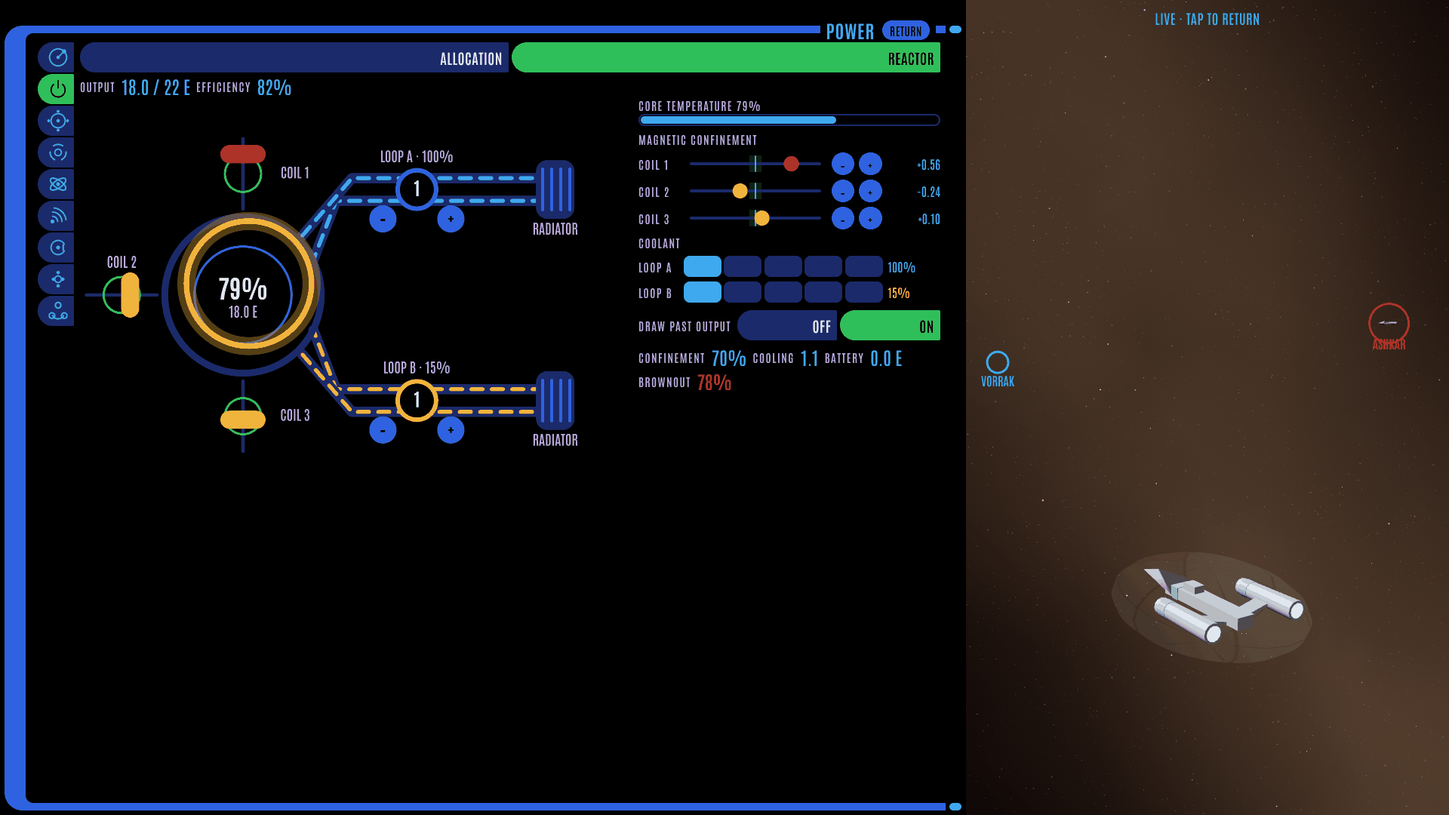
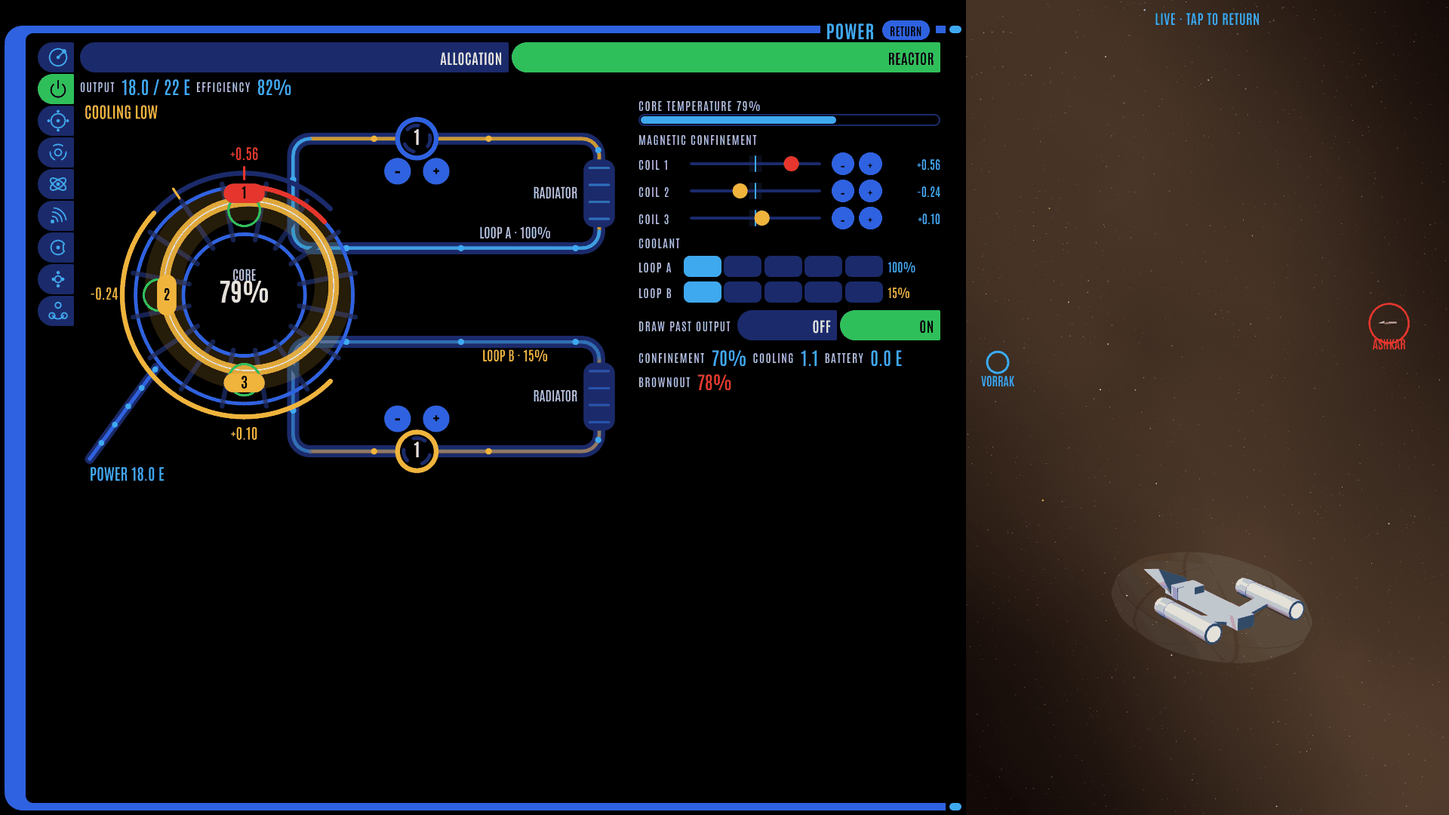
Reactor diagram redrawn as a schematic, coolant as closed loops
The vessel with a field-coil cage and the plasma in its channel, pushed off
centre by misalignment and sparking where it scrapes the wall; a temperature
dial with the warning and limit marked; coolant loops as closed circuits running
through the vessel, hot out to the radiator and cold back, with turning pumps
and radiators that glow with the heat they shed; the power bus. Coils still
drag home, pumps still take minus and plus.

Claude-Session: https://claude.ai/code/session_01RGPQuqAYNNJKpzbbbZ3BfB

diff --git a/docs/mockups/battle-console.html b/docs/mockups/battle-console.html
@@ -1308,82 +1308,145 @@ function coilGauge(i, w, h) {
 // when offline; minus and plus on each pump set its flow. Drawn in Concord's hand: flat lines and pills on black.
 function reactorDiagram(w, h, big) {
   const c = el('canvas', 'live'); c.width = Math.round(w * 2); c.height = Math.round(h * 2); css(c, `width:${w}px;height:${h}px;flex:none;touch-action:none;`);
-  const x = c.getContext('2d'), k = big ? 1.5 : 1;
-  const cx = w * 0.3, cy = h * 0.5, r = Math.min(w * 0.15, h * 0.2), coilR = r * 1.55, travel = r * 0.45;
-  // Coils at the top, the left and the bottom, clear of the coolant pipes on the right.
+  const x = c.getContext('2d'), k = big ? 1.6 : 1;
+  // Geometry: the vessel on the left, the coolant loops to the right, the power bus off the lower left.
+  const R = Math.min(w * 0.2, h * 0.33), cx = Math.max(w * 0.29, R + 46 * (big ? 1.6 : 1)), cy = h * 0.5, Ri = R * 0.56, mid = (R + Ri) / 2, chan = R - Ri, travel = R * 0.28;
   const coilDir = (i) => [-P / 2, P, P / 2][i];
-  const coilAt = (i) => { const a = coilDir(i), d = coilR + W.player.reactor.coils[i] * travel; return [cx + Math.cos(a) * d, cy + Math.sin(a) * d]; };
-  const pumpAt = (j) => [w * 0.62, j ? cy + h * 0.27 : cy - h * 0.27], radAt = (j) => [w * 0.86, j ? cy + h * 0.27 : cy - h * 0.27];
-  const keysAt = (j) => { const [px, py] = pumpAt(j), d = 30 * k; return [[px - d, py + 26 * k, -1], [px + d, py + 26 * k, 1]]; };
+  const coilAt = (i) => { const a = coilDir(i), d = mid + W.player.reactor.coils[i] * travel; return [cx + Math.cos(a) * d, cy + Math.sin(a) * d]; };
+  const portA = (j) => (j ? 0.62 : -0.62), port = (j, rr) => [cx + Math.cos(portA(j)) * rr, cy + Math.sin(portA(j)) * rr];
+  // Each coolant loop is a closed circuit (owner, 2026-11-01: "the loop a and loop b should look like loops"): a rounded
+  // loop whose inner side runs through the vessel, out along its outer side through the pump, round the radiator on the
+  // far side and back along its inner side. Loop A above the core, loop B below.
+  const loopGeom = (j) => {
+    const s = j ? 1 : -1, x0 = cx + R * 0.45, x1 = w - 20 * k, yO = cy + s * h * 0.4, yI = cy + s * h * 0.12, rad = 14 * k;
+    // sampled outline, clockwise for A and anticlockwise for B, starting where the outer side leaves the vessel
+    const pts = [], arc = (ax, ay, a0, a1) => { for (let n = 0; n <= 6; n++) { const a = a0 + (a1 - a0) * n / 6; pts.push([ax + Math.cos(a) * rad, ay + Math.sin(a) * rad]); } };
+    const sy = (y) => y; // y as given
+    pts.push([x0 + rad, yO]);
+    arc(x1 - rad, yO - s * rad, s < 0 ? -P / 2 : P / 2, 0);          // outer far corner
+    const hotEnd = pts.length;                                        // the radiator sits on the far side, between the corners
+    arc(x1 - rad, yI + s * rad, 0, s < 0 ? P / 2 : -P / 2);          // inner far corner
+    arc(x0 + rad, yI + s * rad, s < 0 ? P / 2 : -P / 2, s < 0 ? P : -P); // inner near corner
+    arc(x0 + rad, yO - s * rad, s < 0 ? P : -P, s < 0 ? 1.5 * P : -1.5 * P); // outer near corner
+    return { s, x0, x1, yO, yI, pts, hotEnd, pump: [w * 0.62, yO], rad: [x1, (yO + yI) / 2] };
+  };
+  const pumpAt = (j) => loopGeom(j).pump, radAt = (j) => loopGeom(j).rad;
+  // Minus and plus inside the loop, under loop A's pump and over loop B's.
+  const keysAt = (j) => { const g = loopGeom(j), y = g.yO - g.s * 27 * k; return [[g.pump[0] - 16 * k, y, -1], [g.pump[0] + 16 * k, y, 1]]; };
+  const bus = () => { const a = P * 0.78; return [[cx + Math.cos(a) * (R + 4 * k), cy + Math.sin(a) * (R + 4 * k)], [8 * k, h - 26 * k]]; };
   let drag = -1, hover = null;
   const hit = (px, py) => {
-    for (let i = 0; i < REACTOR.coils; i++) { const [qx, qy] = coilAt(i); if (Math.hypot(px - qx, py - qy) < 22 * k) return { coil: i }; }
-    for (let j = 0; j < REACTOR.loops; j++) for (const [qx, qy, d] of keysAt(j)) if (Math.hypot(px - qx, py - qy) < 16 * k) return { loop: j, d };
+    for (let i = 0; i < REACTOR.coils; i++) { const [qx, qy] = coilAt(i); if (Math.hypot(px - qx, py - qy) < 20 * k) return { coil: i }; }
+    for (let j = 0; j < REACTOR.loops; j++) for (const [qx, qy, d] of keysAt(j)) if (Math.hypot(px - qx, py - qy) < 15 * k) return { loop: j, d };
+    for (let j = 0; j < REACTOR.loops; j++) { const [qx, qy] = pumpAt(j); if (Math.hypot(px - qx, py - qy) < 18 * k) return { pump: j }; }
     return null;
   };
   const at = (e) => { const b2 = c.getBoundingClientRect(); return [(e.clientX - b2.left) / b2.width * w, (e.clientY - b2.top) / b2.height * h]; };
   c.onpointerdown = (e) => {
     e.stopPropagation(); const [px, py] = at(e), t = hit(px, py); if (!t) return;
     if (t.coil != null) { drag = t.coil; c.setPointerCapture(e.pointerId); }
-    else { A.flow(t.loop, W.player.reactor.loops[t.loop].flow + t.d); tickUI(); }
+    else if (t.loop != null) { A.flow(t.loop, W.player.reactor.loops[t.loop].flow + t.d); tickUI(); }
   };
   c.onpointermove = (e) => {
     const [px, py] = at(e);
-    if (drag >= 0) { const a = coilDir(drag), along = (px - cx) * Math.cos(a) + (py - cy) * Math.sin(a); A.setCoil(drag, (along - coilR) / travel); tickUI(); }
-    else { hover = hit(px, py); c.style.cursor = hover ? (hover.coil != null ? 'grab' : 'pointer') : 'default'; }
+    if (drag >= 0) { const a = coilDir(drag), along = (px - cx) * Math.cos(a) + (py - cy) * Math.sin(a); A.setCoil(drag, (along - mid) / travel); tickUI(); }
+    else { hover = hit(px, py); c.style.cursor = hover ? (hover.coil != null ? 'grab' : hover.loop != null ? 'pointer' : 'default') : 'default'; }
   };
   c.onpointerup = c.onpointercancel = () => { drag = -1; };
-  const pipe = (pts, l, t) => {
-    const col = l.hp <= 0 ? CC.alert : l.hp < 0.5 ? CC.caution : CC.sky;
-    x.lineWidth = 9 * k; x.strokeStyle = CC.deep; x.beginPath(); pts.forEach(([px, py], n) => (n ? x.lineTo(px, py) : x.moveTo(px, py))); x.stroke();
-    x.lineWidth = 3.5 * k; x.strokeStyle = col; x.setLineDash(l.hp <= 0 ? [4 * k, 14 * k] : [10 * k, 8 * k]); x.lineDashOffset = -t * l.flow * 14 * k;
-    x.beginPath(); pts.forEach(([px, py], n) => (n ? x.lineTo(px, py) : x.moveTo(px, py))); x.stroke(); x.setLineDash([]);
+  c.onpointerleave = () => { if (drag < 0) hover = null; };
+  const path = (pts) => { x.beginPath(); pts.forEach(([px, py], n) => (n ? x.lineTo(px, py) : x.moveTo(px, py))); };
+  const along = (pts, f) => { // the point a share f of the way along a polyline
+    const seg = []; let tot = 0; for (let n = 1; n < pts.length; n++) { const l = Math.hypot(pts[n][0] - pts[n - 1][0], pts[n][1] - pts[n - 1][1]); seg.push(l); tot += l; }
+    let d = (((f % 1) + 1) % 1) * tot; for (let n = 0; n < seg.length; n++) { if (d <= seg[n]) { const q = d / (seg[n] || 1); return [pts[n][0] + (pts[n + 1][0] - pts[n][0]) * q, pts[n][1] + (pts[n + 1][1] - pts[n][1]) * q]; } d -= seg[n]; }
+    return pts[pts.length - 1];
   };
+  const heatCol = (t) => (t >= 85 ? CC.alert : t >= 65 ? CC.caution : CC.sky);
+  // A pipe with what flows in it: a dark sleeve, a coloured core, and beads that move at the flow.
+  const pipe = (pts, col, l, t, phase) => {
+    x.lineWidth = 10 * k; x.strokeStyle = CC.deep; path(pts); x.stroke();
+    if (l.hp <= 0) { x.lineWidth = 3 * k; x.strokeStyle = CC.alert; x.setLineDash([3 * k, 9 * k]); path(pts); x.stroke(); x.setLineDash([]); return; }
+    x.lineWidth = 3 * k; x.strokeStyle = col; x.globalAlpha = l.hp < 0.5 ? 0.55 : 0.85; path(pts); x.stroke(); x.globalAlpha = 1;
+    const n = 2 + l.flow * 2, speed = l.flow * 0.09;
+    x.fillStyle = col; for (let m = 0; m < n; m++) { const [bx, by] = along(pts, m / n + t * speed + phase); x.beginPath(); x.arc(bx, by, 2.6 * k, 0, 2 * P); x.fill(); }
+  };
+  const label = (text, lx, ly, col = CC.lilac, align = 'center', size = 11) => { x.fillStyle = col; x.font = `600 ${size * k}px Antonio`; x.textAlign = align; x.fillText(text, lx, ly); };
   const draw = () => {
     if (!c.isConnected) return;
-    const s = W.player, rx = s.reactor, t = performance.now() / 1000;
+    const s = W.player, rx = s.reactor, t = performance.now() / 1000, tc = heatCol(rx.temp);
     x.setTransform(2, 0, 0, 2, 0, 0); x.clearRect(0, 0, w, h); x.lineCap = 'round'; x.lineJoin = 'round';
-    // Coolant loops: out of the core, through the pump, round the radiator, back.
+    // The power bus: output leaving the vessel, in Power's blue, beads at the output.
+    const bp = bus(); x.lineWidth = 8 * k; x.strokeStyle = CC.deep; path(bp); x.stroke(); x.lineWidth = 3 * k; x.strokeStyle = CC.signal; path(bp); x.stroke();
+    x.fillStyle = CC.sky; const nb = Math.max(1, Math.round(output(s) / 4)); for (let m = 0; m < nb; m++) { const [bx, by] = along(bp, m / nb + t * 0.25); x.beginPath(); x.arc(bx, by, 2.4 * k, 0, 2 * P); x.fill(); }
+    label(`POWER ${output(s).toFixed(1)} E`, 8 * k, h - 8 * k, CC.sky, 'left', 13);
+    // Coolant loops.
     rx.loops.forEach((l, j) => {
-      const [px, py] = pumpAt(j), [qx, qy] = radAt(j), sgn = j ? 1 : -1, ex = cx + r * 0.9, ey = cy + sgn * r * 0.45;
-      pipe([[ex, ey], [ex + 20 * k, py - 10 * k * sgn], [px, py - 10 * k * sgn], [qx, qy - 10 * k * sgn]], l, t);
-      pipe([[qx, qy + 10 * k * sgn], [px, py + 10 * k * sgn], [ex + 34 * k, py + 10 * k * sgn], [cx + r * 0.75, cy + sgn * r * 0.75]], l, t);
-      // radiator: a pill with fins; pump: a ring with its flow
-      x.fillStyle = CC.deep; x.beginPath(); x.roundRect(qx - 10 * k, qy - 26 * k, 34 * k, 52 * k, 10 * k); x.fill();
-      x.strokeStyle = l.hp <= 0 ? CC.alert : CC.signal; x.lineWidth = 2.5 * k; for (let f = 0; f < 4; f++) { x.beginPath(); x.moveTo(qx - 4 * k + f * 8 * k, qy - 18 * k); x.lineTo(qx - 4 * k + f * 8 * k, qy + 18 * k); x.stroke(); }
-      x.fillStyle = '#000'; x.strokeStyle = l.hp <= 0 ? CC.alert : l.hp < 0.5 ? CC.caution : CC.signal; x.lineWidth = 4 * k; x.beginPath(); x.arc(px, py, 17 * k, 0, 2 * P); x.fill(); x.stroke();
-      x.fillStyle = CC.text; x.font = `700 ${16 * k}px Antonio`; x.textAlign = 'center'; x.fillText(String(l.flow), px, py + 6 * k);
-      x.fillStyle = CC.lilac; x.font = `600 ${12 * k}px Antonio`; x.fillText(`LOOP ${'AB'[j]} · ${l.hp <= 0 ? 'OFFLINE' : pct(l.hp)}`, px, py - 24 * k - (j ? 0 : 0));
+      const g = loopGeom(j), [px, py] = g.pump, [qx, qy] = g.rad, sgn = g.s, closed = [...g.pts, g.pts[0]];
+      // The circuit: a dark sleeve; coolant hot (by core temperature) from the vessel to the radiator, cold after it.
+      x.lineWidth = 10 * k; x.strokeStyle = CC.deep; path(closed); x.stroke();
+      if (l.hp <= 0) { x.lineWidth = 3 * k; x.strokeStyle = CC.alert; x.setLineDash([3 * k, 9 * k]); path(closed); x.stroke(); x.setLineDash([]); }
+      else {
+        const hot = g.pts.slice(0, g.hotEnd + 1), cold = [...g.pts.slice(g.hotEnd), g.pts[0]];
+        x.globalAlpha = l.hp < 0.5 ? 0.55 : 0.85; x.lineWidth = 3 * k;
+        x.strokeStyle = tc; path(hot); x.stroke(); x.strokeStyle = CC.sky; path(cold); x.stroke(); x.globalAlpha = 1;
+        const n = 4 + l.flow * 3, speed = l.flow * 0.045;
+        for (let m = 0; m < n; m++) {
+          const f = (((m / n + t * speed) % 1) + 1) % 1, [bx, by] = along(closed, f);
+          x.fillStyle = f < g.hotEnd / g.pts.length ? tc : CC.sky; x.beginPath(); x.arc(bx, by, 2.6 * k, 0, 2 * P); x.fill();
+        }
+      }
+      // Radiator: a fin bank on the far side of the loop, glowing with the heat it sheds.
+      const shed = clamp(l.flow * l.hp * rx.temp / 250, 0, 1), rh = Math.abs(g.yO - g.yI) * 0.62;
+      x.fillStyle = CC.deep; x.beginPath(); x.roundRect(qx - 13 * k, qy - rh / 2, 26 * k, rh, 9 * k); x.fill();
+      for (let f = 0; f < 4; f++) { x.strokeStyle = l.hp <= 0 ? CC.alert : shed > 0.6 ? CC.caution : CC.sky; x.globalAlpha = 0.35 + 0.65 * shed; x.lineWidth = 2 * k; const fy = qy - rh / 2 + 7 * k + f * (rh - 14 * k) / 3; x.beginPath(); x.moveTo(qx - 8 * k, fy); x.lineTo(qx + 8 * k, fy); x.stroke(); }
+      x.globalAlpha = 1; if (big) label('RADIATOR', qx - 18 * k, qy + 4 * k, CC.lilac, 'right');
+      // Pump: a ring on the outer side with an impeller turning at the flow, its flow in the middle.
+      const pc = l.hp <= 0 ? CC.alert : l.hp < 0.5 ? CC.caution : CC.signal, hv = hover && hover.pump === j;
+      x.fillStyle = '#000'; x.strokeStyle = pc; x.lineWidth = (hv ? 5 : 4) * k; x.beginPath(); x.arc(px, py, 16 * k, 0, 2 * P); x.fill(); x.stroke();
+      const spin = t * l.flow * 2.2 * (l.hp > 0 ? 1 : 0) * -sgn; x.strokeStyle = CC.deep; x.lineWidth = 3 * k;
+      for (let m = 0; m < 3; m++) { const a = spin + m * 2 * P / 3; x.beginPath(); x.arc(px, py, 11 * k, a, a + 0.9); x.stroke(); }
+      x.fillStyle = CC.text; x.font = `700 ${15 * k}px Antonio`; x.textAlign = 'center'; x.fillText(String(l.flow), px, py + 5 * k);
+      label(`LOOP ${'AB'[j]} · ${l.hp <= 0 ? 'OFFLINE' : pct(l.hp)}`, (px + qx) / 2 + 6 * k, g.yI + sgn * 12 * k + 4 * k, l.hp <= 0 ? CC.alert : l.hp < 0.5 ? CC.caution : CC.lilac);
       for (const [bx, by, d] of keysAt(j)) {
         const on = hover && hover.loop === j && hover.d === d;
-        x.fillStyle = on ? CC.sky : CC.signal; x.beginPath(); x.arc(bx, by, 12 * k, 0, 2 * P); x.fill();
-        x.fillStyle = '#000'; x.font = `700 ${16 * k}px Antonio`; x.fillText(d < 0 ? '−' : '+', bx, by + 6 * k);
+        x.fillStyle = on ? CC.sky : CC.signal; x.beginPath(); x.arc(bx, by, 11 * k, 0, 2 * P); x.fill();
+        x.fillStyle = '#000'; x.font = `700 ${16 * k}px Antonio`; x.textAlign = 'center'; x.fillText(d < 0 ? '−' : '+', bx, by + 5.5 * k);
       }
-      x.fillStyle = CC.lilac; x.font = `600 ${12 * k}px Antonio`; x.fillText('RADIATOR', qx + 7 * k, qy + 40 * k);
     });
-    // Core: the vessel, the plasma ring off centre by the coils' misalignment, coloured by temperature.
-    const off = rx.coils.reduce(([ax, ay], o, i) => [ax + Math.cos(coilDir(i)) * o, ay + Math.sin(coilDir(i)) * o], [0, 0]);
-    const hot = rx.temp >= 85 || rx.melt > 0, warm = rx.temp >= 65, pulse = rx.melt > 0 ? 0.5 + 0.5 * Math.sin(t * 8) : 1;
-    x.strokeStyle = CC.deep; x.lineWidth = 6 * k; x.beginPath(); x.arc(cx, cy, r, 0, 2 * P); x.stroke();
-    x.strokeStyle = CC.signal; x.lineWidth = 2 * k; x.beginPath(); x.arc(cx, cy, r * 0.62, 0, 2 * P); x.stroke();
-    const px0 = cx + off[0] * r * 0.32, py0 = cy + off[1] * r * 0.32;
-    x.globalAlpha = 0.35 * pulse; x.strokeStyle = hot ? CC.alert : warm ? CC.caution : CC.sky; x.lineWidth = 16 * k; x.beginPath(); x.arc(px0, py0, r * 0.8, 0, 2 * P); x.stroke();
-    x.globalAlpha = pulse; x.lineWidth = 5 * k; x.beginPath(); x.arc(px0, py0, r * 0.8, 0, 2 * P); x.stroke(); x.globalAlpha = 1;
-    x.fillStyle = hot ? CC.alert : CC.text; x.textAlign = 'center'; x.font = `700 ${22 * k}px Antonio`; x.fillText(`${Math.round(rx.temp)}%`, cx, cy + 4 * k);
-    x.fillStyle = CC.lilac; x.font = `600 ${12 * k}px Antonio`; x.fillText(`${output(s).toFixed(1)} E`, cx, cy + 20 * k);
-    if (rx.melt > 0) { x.fillStyle = CC.alert; x.font = `700 ${16 * k}px Antonio`; x.textAlign = 'left'; x.fillText(`MELTDOWN ${Math.ceil(REACTOR.meltdown_s - rx.melt)} S`, 6, 18 * k); x.textAlign = 'center'; }
-    // Coils: a mark where each belongs, the coil where it is, joined by a thin line; green when home.
+    // The temperature dial round the vessel, open on the right where the pipes leave: 0-120 %, clockwise from the lower
+    // right, ticks at the warning (85) and the limit (100).
+    const g0 = P * 0.25, gs = P * 1.5, gr = R + 11 * k, gv = clamp(rx.temp / 120, 0, 1);
+    x.lineWidth = 4 * k; x.strokeStyle = CC.deep; x.beginPath(); x.arc(cx, cy, gr, g0, g0 + gs); x.stroke();
+    x.strokeStyle = tc; x.beginPath(); x.arc(cx, cy, gr, g0, g0 + gs * gv); x.stroke();
+    for (const [v2, col] of [[85, CC.caution], [100, CC.alert]]) { const a = g0 + gs * v2 / 120; x.strokeStyle = col; x.lineWidth = 2 * k; x.beginPath(); x.moveTo(cx + Math.cos(a) * (gr - 5 * k), cy + Math.sin(a) * (gr - 5 * k)); x.lineTo(cx + Math.cos(a) * (gr + 5 * k), cy + Math.sin(a) * (gr + 5 * k)); x.stroke(); }
+    // The vessel: outer and inner walls, the field-coil cage, the plasma in the channel.
+    x.lineWidth = 3 * k; x.strokeStyle = CC.signal; x.beginPath(); x.arc(cx, cy, R, 0, 2 * P); x.stroke(); x.beginPath(); x.arc(cx, cy, Ri, 0, 2 * P); x.stroke();
+    x.strokeStyle = CC.deep; x.lineWidth = 4 * k; x.globalAlpha = 0.7;
+    for (let m = 0; m < 16; m++) { const a = m * P / 8 + P / 16; x.beginPath(); x.moveTo(cx + Math.cos(a) * (Ri - 4 * k), cy + Math.sin(a) * (Ri - 4 * k)); x.lineTo(cx + Math.cos(a) * (R + 4 * k), cy + Math.sin(a) * (R + 4 * k)); x.stroke(); }
+    x.globalAlpha = 1;
+    const off = rx.coils.reduce(([ax, ay], o, i) => [ax + Math.cos(coilDir(i)) * o, ay + Math.sin(coilDir(i)) * o], [0, 0]), offN = Math.hypot(off[0], off[1]);
+    const ox = off[0] * chan * 0.42, oy = off[1] * chan * 0.42, pulse = rx.melt > 0 ? 0.55 + 0.45 * Math.sin(t * 9) : 0.85 + 0.15 * Math.sin(t * 2.3);
+    x.save(); x.beginPath(); x.arc(cx, cy, R - 1.5 * k, 0, 2 * P); x.arc(cx, cy, Ri + 1.5 * k, 0, 2 * P, true); x.clip();
+    x.globalAlpha = 0.16 * pulse; x.strokeStyle = tc; x.lineWidth = chan * 0.8; x.beginPath(); x.arc(cx + ox, cy + oy, mid, 0, 2 * P); x.stroke();
+    x.globalAlpha = 0.95 * pulse; x.lineWidth = chan * 0.22; x.beginPath(); x.arc(cx + ox, cy + oy, mid, 0, 2 * P); x.stroke();
+    x.globalAlpha = 1; x.strokeStyle = '#fff'; x.lineWidth = 1.2 * k; x.globalAlpha = 0.6 * pulse; x.beginPath(); x.arc(cx + ox, cy + oy, mid, 0, 2 * P); x.stroke(); x.globalAlpha = 1; x.restore();
+    // Wall contact: the plasma pushed far enough to scrape the vessel sparks red where it touches.
+    if (offN > 0.3) { const a = Math.atan2(off[1], off[0]); x.strokeStyle = CC.alert; x.lineWidth = 4 * k; x.globalAlpha = 0.5 + 0.5 * Math.sin(t * 14); x.beginPath(); x.arc(cx, cy, R, a - 0.35, a + 0.35); x.stroke(); x.globalAlpha = 1; }
+    // Centre: temperature, the word CORE.
+    x.fillStyle = rx.temp >= 85 ? CC.alert : CC.text; x.textAlign = 'center'; x.font = `700 ${(big ? 26 : 20) * k / (big ? 1.25 : 1)}px Antonio`; x.fillText(`${Math.round(rx.temp)}%`, cx, cy + 6 * k);
+    label('CORE', cx, cy - 12 * k);
+    // Confinement coils: a short track across the vessel, a green ring where each belongs, the coil numbered on its face.
     for (let i = 0; i < REACTOR.coils; i++) {
-      const a = coilDir(i), mx = cx + Math.cos(a) * coilR, my = cy + Math.sin(a) * coilR, [qx, qy] = coilAt(i), o = Math.abs(rx.coils[i]);
-      x.strokeStyle = CC.deep; x.lineWidth = 3 * k; x.beginPath(); x.moveTo(cx + Math.cos(a) * (coilR - travel), cy + Math.sin(a) * (coilR - travel)); x.lineTo(cx + Math.cos(a) * (coilR + travel), cy + Math.sin(a) * (coilR + travel)); x.stroke();
-      x.strokeStyle = CC.accord; x.lineWidth = 2 * k; x.beginPath(); x.arc(mx, my, 16 * k, 0, 2 * P); x.stroke();
-      const col = o < 0.1 ? CC.accord : o < 0.3 ? CC.caution : CC.alert;
-      x.save(); x.translate(qx, qy); x.rotate(a + P / 2); x.fillStyle = col; x.beginPath(); x.roundRect(-20 * k, -8 * k, 40 * k, 16 * k, 8 * k); x.fill();
-      if ((hover && hover.coil === i) || drag === i) { x.strokeStyle = CC.text; x.lineWidth = 2 * k; x.stroke(); } x.restore();
-      x.fillStyle = CC.lilac; x.font = `600 ${12 * k}px Antonio`; x.textAlign = 'center';
-      const lx = cx + Math.cos(a) * coilR + (Math.abs(Math.cos(a)) < 0.5 ? 46 * k : 0), ly = cy + Math.sin(a) * coilR + (Math.abs(Math.cos(a)) < 0.5 ? 4 * k : -24 * k);
-      x.fillText(`COIL ${i + 1}`, lx, ly);
+      const a = coilDir(i), mx = cx + Math.cos(a) * mid, my = cy + Math.sin(a) * mid, [qx, qy] = coilAt(i), o = rx.coils[i], ao = Math.abs(o);
+      x.strokeStyle = CC.accord; x.lineWidth = 2 * k; x.beginPath(); x.arc(mx, my, 13 * k, 0, 2 * P); x.stroke();
+      const col = ao < 0.1 ? CC.accord : ao < 0.3 ? CC.caution : CC.alert, act = (hover && hover.coil === i) || drag === i;
+      x.save(); x.translate(qx, qy); x.rotate(a + P / 2); x.fillStyle = col; x.beginPath(); x.roundRect(-17 * k, -8 * k, 34 * k, 16 * k, 8 * k); x.fill();
+      if (act) { x.strokeStyle = CC.text; x.lineWidth = 2 * k; x.stroke(); }
+      x.rotate(-(a + P / 2)); x.fillStyle = '#000'; x.font = `700 ${12 * k}px Antonio`; x.textAlign = 'center'; x.fillText(String(i + 1), 0, 4.5 * k); x.restore();
+      const vr = R + 26 * k; if (act || ao >= 0.1) label(`${o >= 0 ? '+' : ''}${o.toFixed(2)}`, cx + Math.cos(a) * vr, cy + Math.sin(a) * vr + 4 * k, col, 'center', 12);
     }
+    // The meltdown clock, across the top.
+    if (rx.melt > 0) { x.fillStyle = CC.alert; x.globalAlpha = 0.6 + 0.4 * Math.sin(t * 9); x.font = `700 ${15 * k}px Antonio`; x.textAlign = 'left'; x.fillText(`MELTDOWN IN ${Math.ceil(REACTOR.meltdown_s - rx.melt)} S`, 6, 16 * k); x.globalAlpha = 1; }
+    else if (cooling(s) < 1.5) label('COOLING LOW', 6, 16 * k, CC.caution, 'left', 13);
     requestAnimationFrame(draw);
   };
   requestAnimationFrame(draw);
@@ -1391,11 +1454,12 @@ function reactorDiagram(w, h, big) {
 }
 function stReactor(b, big) {
   const s = () => W.player, rx = () => W.player.reactor, rated = () => CLASSES[W.player.cls].reactor_e;
-  b.append(htm(() => `<span class="lbl">Output</span> <span class="num">${output(s()).toFixed(1)} / ${rated()} E</span> <span class="lbl">Efficiency</span> <span class="num">${pct(efficiency(s()))}</span>`, 'row'));
+  const out = htm(() => `<span class="lbl">Output</span> <span class="num">${output(s()).toFixed(1)} / ${rated()} E</span> <span class="lbl">Efficiency</span> <span class="num">${pct(efficiency(s()))}</span>`, 'row');
   const temp = bar(() => (rx().melt > 0 ? `Core ${Math.round(rx().temp)}% · meltdown in ${Math.ceil(REACTOR.meltdown_s - rx().melt)} s` : `Core temperature ${Math.round(rx().temp)}%`),
     () => rx().temp / 120, () => rx().temp >= 85 || rx().melt > 0);
   const cfg = el('div', 'row'); cfg.append(el('div', 'lbl', 'Draw past output'), css(tabs([[false, 'Off'], [true, 'On']], () => s().overdraw, A.overdraw), 'flex:1;'));
-  if (!big) { b.append(reactorDiagram(348, 196, false), temp, cfg); return; }
+  if (!big) { b.append(reactorDiagram(348, 276, false), cfg); return; }
+  b.append(out);
   // Expanded: the diagram large, and beside it the same controls as numbers (coil gauges, loop flow boxes).
   const r = R.station.getBoundingClientRect(), dw = Math.min(820, r.width / S - 72 - 56 - 420), dh = Math.min(dw * 0.72, r.height / S - 170);
   const row = el('div', 'row'); css(row, 'align-items:flex-start;gap:20px;');

diff --git a/openspec/changes/reactor/design.md b/openspec/changes/reactor/design.md
@@ -36,15 +36,25 @@ brown out.
 ## The screen (Concord skin)
 
 - **The reactor diagram** (owner, 2026-11-01: "I want like an actual diagram of the nuclear reactor and be able to like
-  interact with it"): the core from above, its plasma ring coloured by temperature (Sky, amber from 65 %, red from 85 %,
-  pulsing while the meltdown clock runs) and pushed off centre by the coils' misalignment; the temperature and output in
-  its middle. Three confinement coils (top, left, bottom) each on a short track with a green ring where it belongs: the
-  captain **drags a coil back onto its ring**; it turns green within 0.1. Two coolant loops run right from the core
-  through a pump (its flow in the middle, **minus and plus beside it**) to a radiator and back; the coolant moves along
-  the pipe at the loop's flow, amber when the loop is damaged, broken and red when offline. The meltdown countdown
-  shows in the corner. Docked it is 348 x 196 px; expanded it is drawn large beside the same controls as numbers (coil
-  gauges with minus and plus, the loops' flow boxes). Checked headless: dragging coil 1 from +0.56 to its ring sets it
-  to 0.00; plus on loop A raises its flow from 1 to 2.
+  interact with it", "please improve that diagram of a reactor", "the loop a and loop b should look like loops"), a
+  schematic in Concord's flat hand:
+  - **The vessel**: outer and inner walls with a cage of sixteen field coils across the channel, the plasma ring glowing
+    in it by temperature (Sky, amber from 65 %, red from 85 %; pulsing while the meltdown clock runs) and pushed off
+    centre by the coils' misalignment; past 0.3 it scrapes the wall, which sparks red where it touches. CORE and the
+    temperature in the middle.
+  - **The temperature dial** round the vessel, 0-120 %, open on the right where the loops leave, ticks at 85 and 100.
+  - **Confinement coils** (1 top, 2 left, 3 bottom) across the channel, numbered on their faces, each with a green ring
+    where it belongs; the captain **drags a coil onto its ring**; its value shows outside the dial while it is off.
+  - **Coolant loops**: each a closed rounded circuit whose inner side runs through the vessel, out along the outer side
+    through the pump, round the radiator on the far side and back. Coolant is hot (coloured by the core) from the
+    vessel to the radiator and Sky after it; beads move round the loop at its flow. The pump's impeller turns at the
+    flow, the flow in its middle, **minus and plus** inside the loop beside it. Amber when the loop is damaged, a broken
+    red line when offline. The radiator's fins glow with the heat it sheds.
+  - **The power bus** leaves the vessel to the lower left, in Power's blue, beads at the output, POWER and the output.
+  - **Warnings** in the corner: COOLING LOW under 1.5 cooling, MELTDOWN IN n S flashing while the clock runs.
+  - Docked it is 348 x 276 px (the output and temperature rows are in the diagram); expanded it is drawn large beside
+    the same controls as numbers. Checked headless: dragging coil 1 from +0.56 onto its ring sets it to 0.00; plus on
+    loop A raises its flow from 1 to 2.
 - **Reactor mode**: output and efficiency; the core temperature bar (warning from 85 %, and the meltdown countdown in
   its label); three coil gauges (a track, a centre mark, a green safe band of 0.1, a dot green, amber or red by
   misalignment) with minus and plus keys and the value; two coolant loops as five flow boxes each with the loop's

diff --git a/mockup-work.md b/mockup-work.md
@@ -124,7 +124,10 @@ systems to keep the reactor from melting down. a meltdown can happen if coolant 
 result in an explosion of the reactor". Version 4 adds the Reactor mode (OpenSpec change `reactor`), Power blue over
 Systems green with a Battery bar, and the Draw past output setting; shown as screenshots. Then: "I want like an actual diagram of the
 nuclear reactor and be able to like interact with it": the Reactor mode is now a diagram of the core, coils and coolant
-loops, worked by dragging the coils home and pressing minus and plus on the pumps.
+loops, worked by dragging the coils home and pressing minus and plus on the pumps. Then: "please improve that diagram of a reactor", "the
+loop a and loop b should look like loops i think", "it would make more sense": the diagram redrawn as a schematic (a
+vessel with a field-coil cage and the plasma in its channel, a temperature dial, wall contact, closed coolant loops
+running through the vessel with hot and cold legs, turning pumps, glowing radiators, the power bus).
 
 ## 3. Look dev
 
